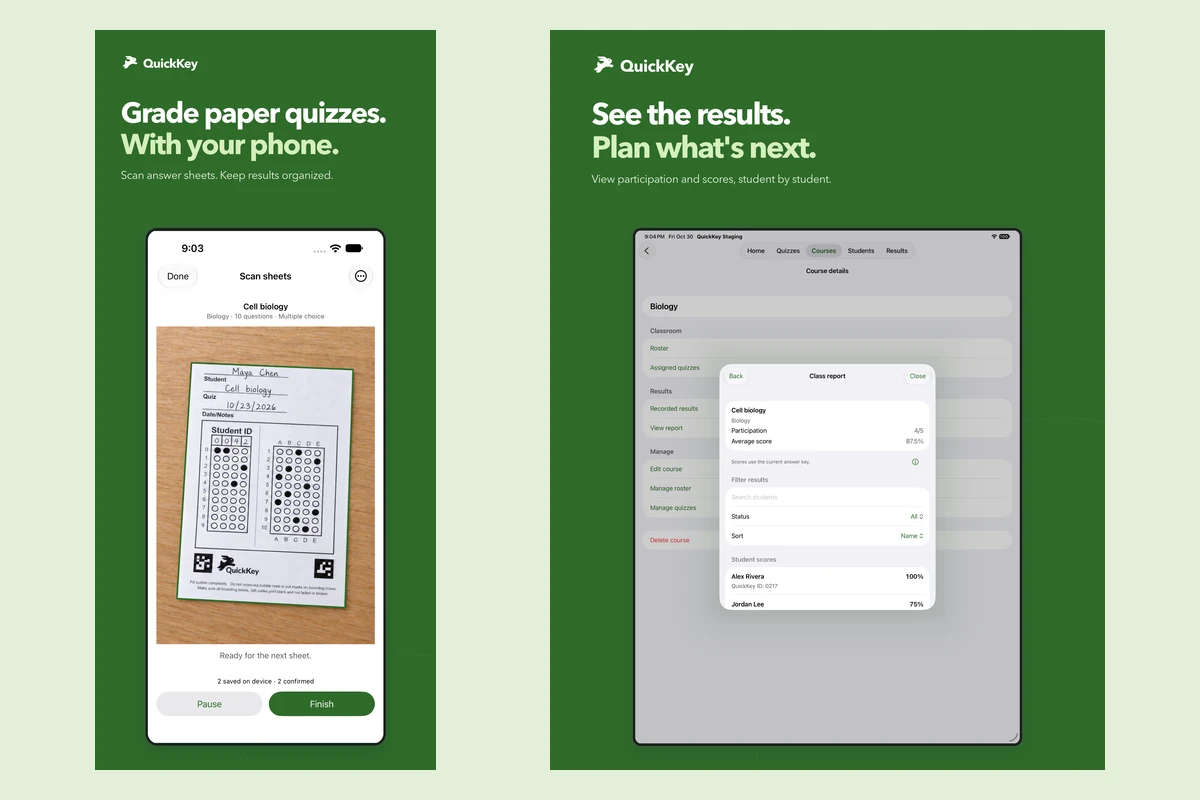
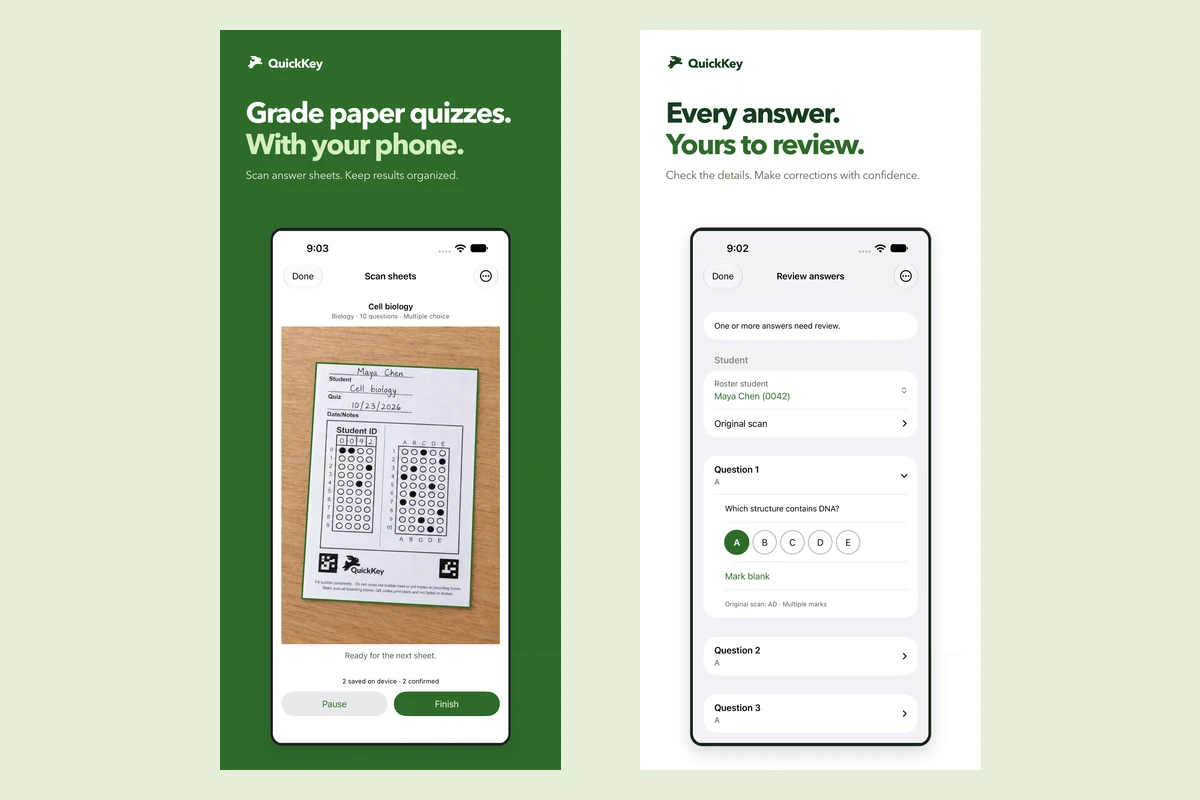
Polish QuickKey announcement copy and imagery

diff --git a/data/projects/quickkey.test.tsx b/data/projects/quickkey.test.tsx
@@ -73,7 +73,7 @@ describe("QuickKey corporate publication", () => {
     expect(new Set(quickkey.screenshots!.map((image) => image.width))).toEqual(new Set([442]));
   });
 
-  it("keeps acquisition, released apps, beta changes and future work distinct", () => {
+  it("keeps release chronology and teacher priorities without beta-update detail", () => {
     const article = getNewsItemBySlug(quickkey.newsSlug!)!;
     expect(article.status).toBe("published");
     expect(article.publishedLabel).toBe("November 6, 2026");
@@ -82,7 +82,10 @@ describe("QuickKey corporate publication", () => {
     expect(article.eventAt).toBeUndefined();
     expect(article.seoDescription!.length).toBeLessThanOrEqual(155);
     const body = readFileSync(`content/news/${article.slug}.md`, "utf8");
-    for (const text of ["September 2026", "November 3, 2026", "controlled production rollout", "1.0.1", "public beta", "What comes next", "fictional"]) expect(body).toContain(text);
+    for (const text of ["September 2026", "November 3, 2026", "controlled production rollout", "What comes next", "fictional", "keeping QuickKey stable", "modernizing the mobile apps and web app", "listening to teachers"]) expect(body).toContain(text);
+    expect(body + JSON.stringify(article)).not.toMatch(/What is still being tested|1\.0\.1|public beta/i);
+    expect(article.heroMedia?.alt).toContain("answer-review");
+    expect(article.heroMedia?.alt).not.toContain("iPad");
     expect(body).not.toMatch(/\$\d|purchase price|seller name|guaranteed|all bugs/i);
     expect(body).toContain("[QuickKey product page](/quickkey)");
     expect(readFileSync("public/app-ads.txt", "utf8").trim().split("\n").length).toBeGreaterThan(200);

diff --git a/data/projects/quickkey.ts b/data/projects/quickkey.ts
@@ -104,7 +104,7 @@ export const quickkey: Project = {
   hero: "/assets/projects/quickkey-icon.webp",
   heroMedia: {
     src: "/assets/projects/quickkey/hero.webp",
-    alt: "Published QuickKey artwork showing paper scanning on iPhone and class results on iPad, using fictional classroom examples",
+    alt: "Published QuickKey artwork showing paper scanning and answer review on iPhone, using fictional classroom examples",
     width: 1200,
     height: 800,
   },

diff --git a/docs/quickkey-corporate-review.md b/docs/quickkey-corporate-review.md
@@ -25,8 +25,6 @@ second publishing path. Publication date is November 6, not the acquisition date
   app `686229501`; seller Thirty Seven Inc., languages EN/ES.
 - Android: 1.0.0 controlled production rollout, verified in the existing release
   receipts and `roadmap-i37s.39.4.1`. No rollout percentage is advertised.
-- 1.0.1 is a separate public beta, not a production launch. Current release Beads
-  distinguish it from the public 1.0.0 apps.
 - Published workflows use supported QuickKey forms and teacher review. No perfect
   recognition, arbitrary-form, fully-offline, adoption, rating or compliance claims.
 - English/Spanish mobile apps and homepage/signup are shipped. Supporting web
@@ -42,7 +40,9 @@ The native rabbit icon and approved `v1-approved` artwork match the public Apple
 listing. No new app captures or unpublished finishing-batch images were used.
 
 The iPhone gallery follows answer key, printing, scanning, review and results.
-The hero deliberately pairs complete iPhone scanning and iPad reporting posters.
+Following owner review, the hero pairs complete iPhone scanning and answer-review
+posters instead of the low-detail iPad report. The article omits beta-update detail
+and keeps its next priorities focused on stability, monitoring and modernization.
 Their classroom examples are fictional. Icon is 192px; screenshots are at most
 960px tall; hero is 1200x800 and sharing image is 1200x630.
 

diff --git a/content/news/quickkey-joins-thirty-seven.md b/content/news/quickkey-joins-thirty-seven.md
@@ -22,15 +22,9 @@ We have also refreshed the QuickKey website, added a Spanish homepage and signup
 
 The artwork on this page comes from the published native-app store listing and uses fictional classroom examples.
 
-## What is still being tested
-
-A further 1.0.1 update is in public beta on both platforms. Those changes are still being tested, rather than being part of the production-store release.
-
-We are continuing to test scanning and review on real devices and with representative teacher workflows. Additional account and billing-screen improvements are also in development.
-
 ## What comes next
 
-Our priorities are practical: make the scan-to-review path clearer, reduce avoidable setup and support friction, improve accessibility, and keep the English and Spanish experience consistent. Supporting website journeys and guides still have translation work ahead of them.
+Our first priorities are keeping QuickKey stable, monitoring how it performs, and modernizing the mobile apps and web app.
 
 We will keep listening to teachers, fixing the problems that interrupt their work, and improving the product in measured steps.
 
